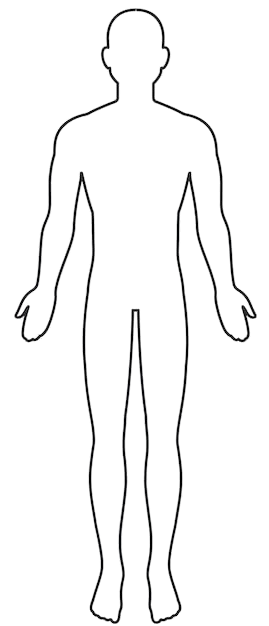
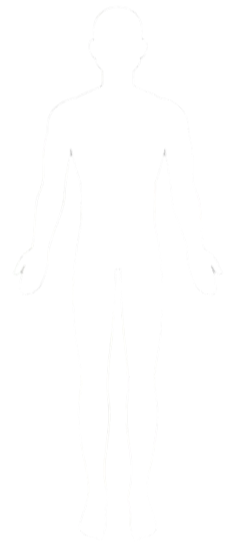
.

diff --git a/style.css b/style.css
@@ -35,4 +35,5 @@ a,button,title{
 .header button:hover{
     background-color: rgb(5, 82, 82);
     color: rgb(3, 3, 68);
+
 }

diff --git a/index.php b/index.php
@@ -17,9 +17,12 @@
         <br>
         <br>
         <img style="margin-left: 500px; z-index: -1; float:left" height="1500px" width="900" src="./src/images/corpscontour-removebg-preview.png">
-        <img style="position:absolute; left:850px" src="./src/images/virus.png" id="virus">
-        <img style="position:absolute; left:825px; top:550px; max-width: 100px; max-height: 100px;" src="./src/images/coeur.png" id="coeur">
+        <img style="position:absolute; left:900px; top:225px; max-width: 90px; max-height: 90px;" src="./src/images/virus.png" id="virus">
+        <img style="position:absolute; left:825px; top:550px; max-width: 90px; max-height: 90px;" src="./src/images/coeur.png" id="coeur">
         <img style="position:absolute; left:900px; top:650px; max-width: 100px; max-height: 100px;" src="./src/images/estomac.png" id="estomac">
         <img style="position:absolute; left:850px; top:370px; max-width: 200px; max-height: 200px;" src="./src/images/poumons.png" id="poumons">
+        <img style="position:absolute; left:770px; top:870px; max-width: 200px; max-height: 200px;" src="./src/images/veine.png" id="veine">
+        <img style="position:absolute; left:970px; top:870px; max-width: 200px; height: 320px;" src="./src/images/squelettejambe.png" id="squelettejambe">
+        <img style="position:absolute; left:970px; top:770px; max-width: 100px; height: 100px;" src="./src/images/cell.png" id="cell">
     </body>
 </html>
